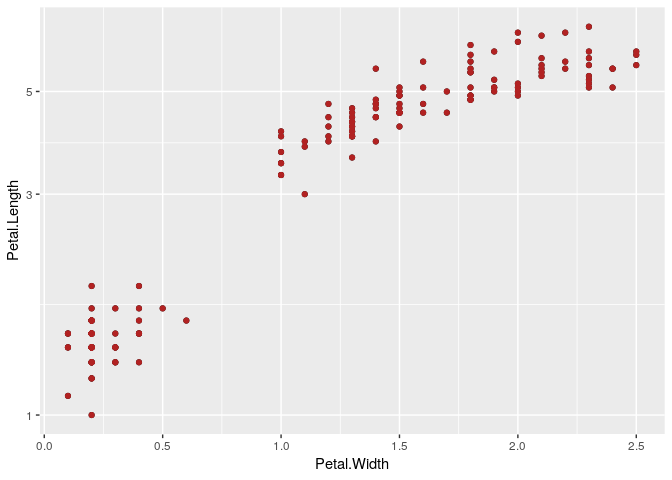
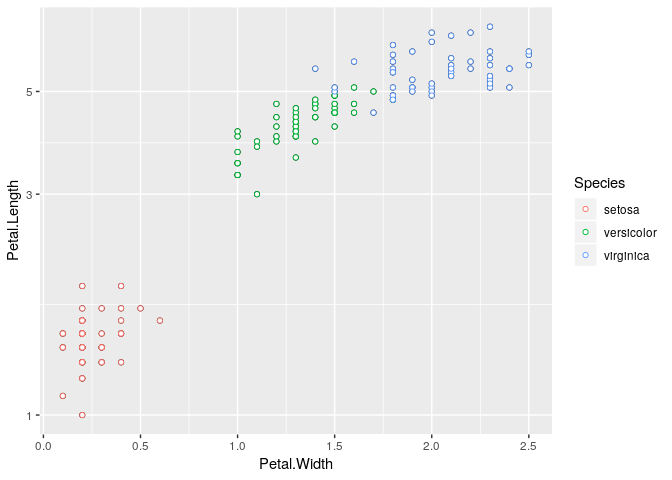
added metadata

diff --git a/inst/exploratory/01-ggspec-components.md b/inst/exploratory/01-ggspec-components.md
@@ -10,7 +10,7 @@ First components of the ggspec function
 ``` r
 p <- ggplot(data = iris) + 
   geom_point(aes(x = Petal.Width, y = Petal.Length)) + 
-  geom_point(data = iris, aes(x = Petal.Width, y = Petal.Length), color = "firebrick") +
+  geom_point(aes(x = Petal.Width, y = Petal.Length, color = Species), shape = 21, fill = "white") +
   scale_y_log10()
 
 p
@@ -33,6 +33,22 @@ will live.
 are the plot data and the plot layers. The result is a named list of
 datasets, named `data-00`, `data-01`, …, where each list contains the
 elements `metadata`, `variables`, and `hash`.
+
+**TO - DO**:
+
+  - Need to name the datasets but will need to check for matching
+    hashsums and remove `NULL`s
+      - Would like only the default data to be able to be named
+        `data-00`  
+      - The other data sets will be named `data-01`, `data-02`, and so
+        on.  
+  - `metadata` will be a named list (names are variable names) of 3 (1
+    required, 2 optional)
+      - `type` = variable type (required)
+      - `levels` = levels of factor (optional)
+      - `timezone` = timezone of `date` or `POSIXct` (optional)
+
+<!-- end list -->
 
 ``` r
 name_data <- function(dat) {
@@ -64,12 +80,9 @@ Helper functions:
 
 `format_data_int()` will format each list of data so that it contains:
 
-  - `metadata`, could be a named list, using names of variables:
-      - `type`, first pass at `"quantitative"`, …, based on class,
-        etc.  
-      - `levels`, optional, vector of strings, used for factor-levels  
-  - `variables`, the data frame itself  
-  - `hash`, the md5 hash of the data frame
+  - `metadata`: discussed below
+  - `variables`: the data frame itself  
+  - `hash`: the md5 hash of the data frame
 
 <!-- end list -->
 
@@ -78,7 +91,7 @@ format_data_int <- function(dat) {
   if(is.waive(dat) || is.null(dat)) return(NULL) 
   else {
     list(
-      metadata = purrr::map_chr(dat, class),
+      metadata = purrr::pluck(dat) %>% purrr::map(create_meta_levels),
       variables = dat,
       hash = digest::digest(dat)
     )
@@ -86,17 +99,45 @@ format_data_int <- function(dat) {
 }
 ```
 
-`create_meta_levels()`
+`create_meta_levels()` will create the names list of 3
+
+  - `metadata`: could be a named list, using names of variables:
+      - `type`: first pass at `"quantitative"`, …, based on class,
+        etc.  
+      - `levels`: optional, vector of strings, used for factor-levels  
+      - `timezone`: optional, timezone of `date` or `POSIXct`
+
+`case_type_vl()` converts the type into a Vega-lite type
 
 ``` r
-# create_meta_levels <- function(dat){
-#   loc <- purrr::detect_index(dat, is.factor)
-#   levels <- purrr::pluck(dat, loc, levels)
-#   meta <- list(levels) ## How to evaluate the name first??
-#   names(meta) <- names(dat)[loc]
-#   meta
-# }
-# 
+case_type_vl <- function(type) {
+  case_when(
+    type == "Date" | type == "POSIXct" ~ "temporal",
+    type == "factor" | type == "character" | type == "logical" ~ "nominal",
+    type == "ordered" ~ "ordinal",
+    type == "numeric" ~ "quantitative"
+  )
+}
+
+create_meta_levels <- function(dat){
+  type = class(dat)
+  if(type == "factor" | type == "ordered") {
+    meta <- list(
+      type = case_type_vl(type),
+      levels = levels(dat)
+    )
+  } else if (type == "date" | type == "POSIXct") {
+    meta <- list(
+      type = case_type_vl(type),
+      timezone = NULL # use lubridate::tz or ??
+    )
+  } else {
+    meta <- list(
+      type = case_type_vl(type)
+    )
+  }
+  meta
+}
 ```
 
 <br/>
@@ -104,23 +145,24 @@ format_data_int <- function(dat) {
 Example of the function in use:
 
 ``` r
-str(data_int(p$data, p$layers))
+test <- data_int(p$data, p$layers)
+str(test)
 ```
 
-    ## List of 2
+    ## List of 1
     ##  $ :List of 3
-    ##   ..$ metadata : Named chr [1:5] "numeric" "numeric" "numeric" "numeric" ...
-    ##   .. ..- attr(*, "names")= chr [1:5] "Sepal.Length" "Sepal.Width" "Petal.Length" "Petal.Width" ...
-    ##   ..$ variables:'data.frame':    150 obs. of  5 variables:
-    ##   .. ..$ Sepal.Length: num [1:150] 5.1 4.9 4.7 4.6 5 5.4 4.6 5 4.4 4.9 ...
-    ##   .. ..$ Sepal.Width : num [1:150] 3.5 3 3.2 3.1 3.6 3.9 3.4 3.4 2.9 3.1 ...
-    ##   .. ..$ Petal.Length: num [1:150] 1.4 1.4 1.3 1.5 1.4 1.7 1.4 1.5 1.4 1.5 ...
-    ##   .. ..$ Petal.Width : num [1:150] 0.2 0.2 0.2 0.2 0.2 0.4 0.3 0.2 0.2 0.1 ...
-    ##   .. ..$ Species     : Factor w/ 3 levels "setosa","versicolor",..: 1 1 1 1 1 1 1 1 1 1 ...
-    ##   ..$ hash     : chr "d3c5d071001b61a9f6131d3004fd0988"
-    ##  $ :List of 3
-    ##   ..$ metadata : Named chr [1:5] "numeric" "numeric" "numeric" "numeric" ...
-    ##   .. ..- attr(*, "names")= chr [1:5] "Sepal.Length" "Sepal.Width" "Petal.Length" "Petal.Width" ...
+    ##   ..$ metadata :List of 5
+    ##   .. ..$ Sepal.Length:List of 1
+    ##   .. .. ..$ type: chr "quantitative"
+    ##   .. ..$ Sepal.Width :List of 1
+    ##   .. .. ..$ type: chr "quantitative"
+    ##   .. ..$ Petal.Length:List of 1
+    ##   .. .. ..$ type: chr "quantitative"
+    ##   .. ..$ Petal.Width :List of 1
+    ##   .. .. ..$ type: chr "quantitative"
+    ##   .. ..$ Species     :List of 2
+    ##   .. .. ..$ type  : chr "nominal"
+    ##   .. .. ..$ levels: chr [1:3] "setosa" "versicolor" "virginica"
     ##   ..$ variables:'data.frame':    150 obs. of  5 variables:
     ##   .. ..$ Sepal.Length: num [1:150] 5.1 4.9 4.7 4.6 5 5.4 4.6 5 4.4 4.9 ...
     ##   .. ..$ Sepal.Width : num [1:150] 3.5 3 3.2 3.1 3.6 3.9 3.4 3.4 2.9 3.1 ...
@@ -163,14 +205,9 @@ data_spc <- function(data_int) {
 str(data_spc(data_int(p$data, p$layers)), max.level = 2)
 ```
 
-    ## List of 2
+    ## List of 1
     ##  $ :List of 2
-    ##   ..$ metadata    : Named chr [1:5] "numeric" "numeric" "numeric" "numeric" ...
-    ##   .. ..- attr(*, "names")= chr [1:5] "Sepal.Length" "Sepal.Width" "Petal.Length" "Petal.Width" ...
-    ##   ..$ observations:List of 150
-    ##  $ :List of 2
-    ##   ..$ metadata    : Named chr [1:5] "numeric" "numeric" "numeric" "numeric" ...
-    ##   .. ..- attr(*, "names")= chr [1:5] "Sepal.Length" "Sepal.Width" "Petal.Length" "Petal.Width" ...
+    ##   ..$ metadata    :List of 5
     ##   ..$ observations:List of 150
 
 <br/>
@@ -268,15 +305,19 @@ str(layer_int(p$layers))
     ##   ..$ data      : list()
     ##   ..$ geom      :List of 1
     ##   .. ..$ class: chr "GeomPoint"
-    ##   ..$ mapping   :List of 2
-    ##   .. ..$ x:List of 2
+    ##   ..$ mapping   :List of 3
+    ##   .. ..$ x     :List of 2
     ##   .. .. ..$ field: symbol Petal.Width
     ##   .. .. ..$ type : NULL
-    ##   .. ..$ y:List of 2
+    ##   .. ..$ y     :List of 2
     ##   .. .. ..$ field: symbol Petal.Length
     ##   .. .. ..$ type : NULL
-    ##   ..$ aes_params:List of 1
-    ##   .. ..$ colour: chr "firebrick"
+    ##   .. ..$ colour:List of 2
+    ##   .. .. ..$ field: symbol Species
+    ##   .. .. ..$ type : NULL
+    ##   ..$ aes_params:List of 2
+    ##   .. ..$ shape: num 21
+    ##   .. ..$ fill : chr "white"
     ##   ..$ stat      :List of 1
     ##   .. ..$ class: chr "StatIdentity"
 
@@ -382,6 +423,8 @@ p_scale <- ggplot(iris) +
   geom_point(aes(x = Petal.Width, y = Petal.Length)) + 
   geom_point(aes(x = Petal.Width, y = Petal.Length), color = "firebrick") +
   scale_y_log10("new lab") 
+
+ps <- ggplot_build(p_scale)
 ```
 
 <br/>
@@ -411,14 +454,9 @@ str(ggspec(p), max.level = 3)
 ```
 
     ## List of 4
-    ##  $ data  :List of 2
+    ##  $ data  :List of 1
     ##   ..$ :List of 2
-    ##   .. ..$ metadata    : Named chr [1:5] "numeric" "numeric" "numeric" "numeric" ...
-    ##   .. .. ..- attr(*, "names")= chr [1:5] "Sepal.Length" "Sepal.Width" "Petal.Length" "Petal.Width" ...
-    ##   .. ..$ observations:List of 150
-    ##   ..$ :List of 2
-    ##   .. ..$ metadata    : Named chr [1:5] "numeric" "numeric" "numeric" "numeric" ...
-    ##   .. .. ..- attr(*, "names")= chr [1:5] "Sepal.Length" "Sepal.Width" "Petal.Length" "Petal.Width" ...
+    ##   .. ..$ metadata    :List of 5
     ##   .. ..$ observations:List of 150
     ##  $ layers:List of 2
     ##   ..$ :List of 5
@@ -430,8 +468,8 @@ str(ggspec(p), max.level = 3)
     ##   ..$ :List of 5
     ##   .. ..$ data      : list()
     ##   .. ..$ geom      :List of 1
-    ##   .. ..$ mapping   :List of 2
-    ##   .. ..$ aes_params:List of 1
+    ##   .. ..$ mapping   :List of 3
+    ##   .. ..$ aes_params:List of 2
     ##   .. ..$ stat      :List of 1
     ##  $ scales:List of 1
     ##   ..$ :List of 4
@@ -439,9 +477,10 @@ str(ggspec(p), max.level = 3)
     ##   .. ..$ class     : chr "ScaleContinuousPosition"
     ##   .. ..$ aesthetics: chr [1:10] "y" "ymin" "ymax" "yend" ...
     ##   .. ..$ transform :List of 1
-    ##  $ labels:List of 2
-    ##   ..$ x: chr "Petal.Width"
-    ##   ..$ y: chr "Petal.Length"
+    ##  $ labels:List of 3
+    ##   ..$ x     : chr "Petal.Width"
+    ##   ..$ y     : chr "Petal.Length"
+    ##   ..$ colour: chr "Species"
 
 <br/> <br/>
 

diff --git a/README.md b/README.md
@@ -12,7 +12,8 @@ status](https://www.r-pkg.org/badges/version/ggspec)](https://cran.r-project.org
 
 <!-- badges: end -->
 
-The goal of ggspec is to …
+The goal of ggspec is to convert a ggplot2 object into a
+JSON-serializable list.
 
 ## Installation
 
